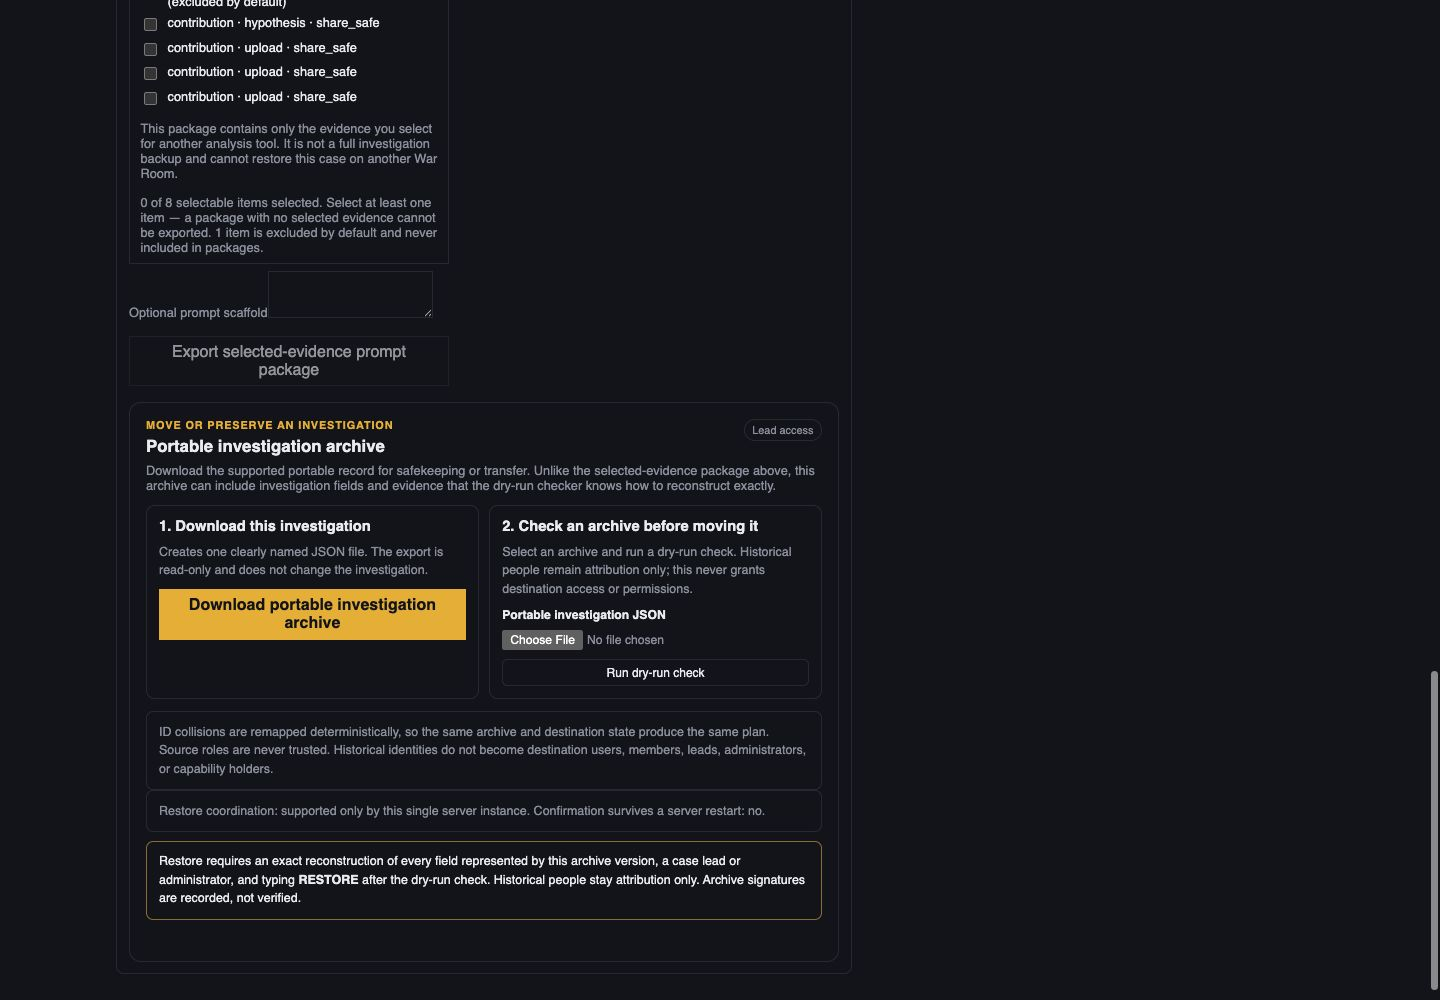
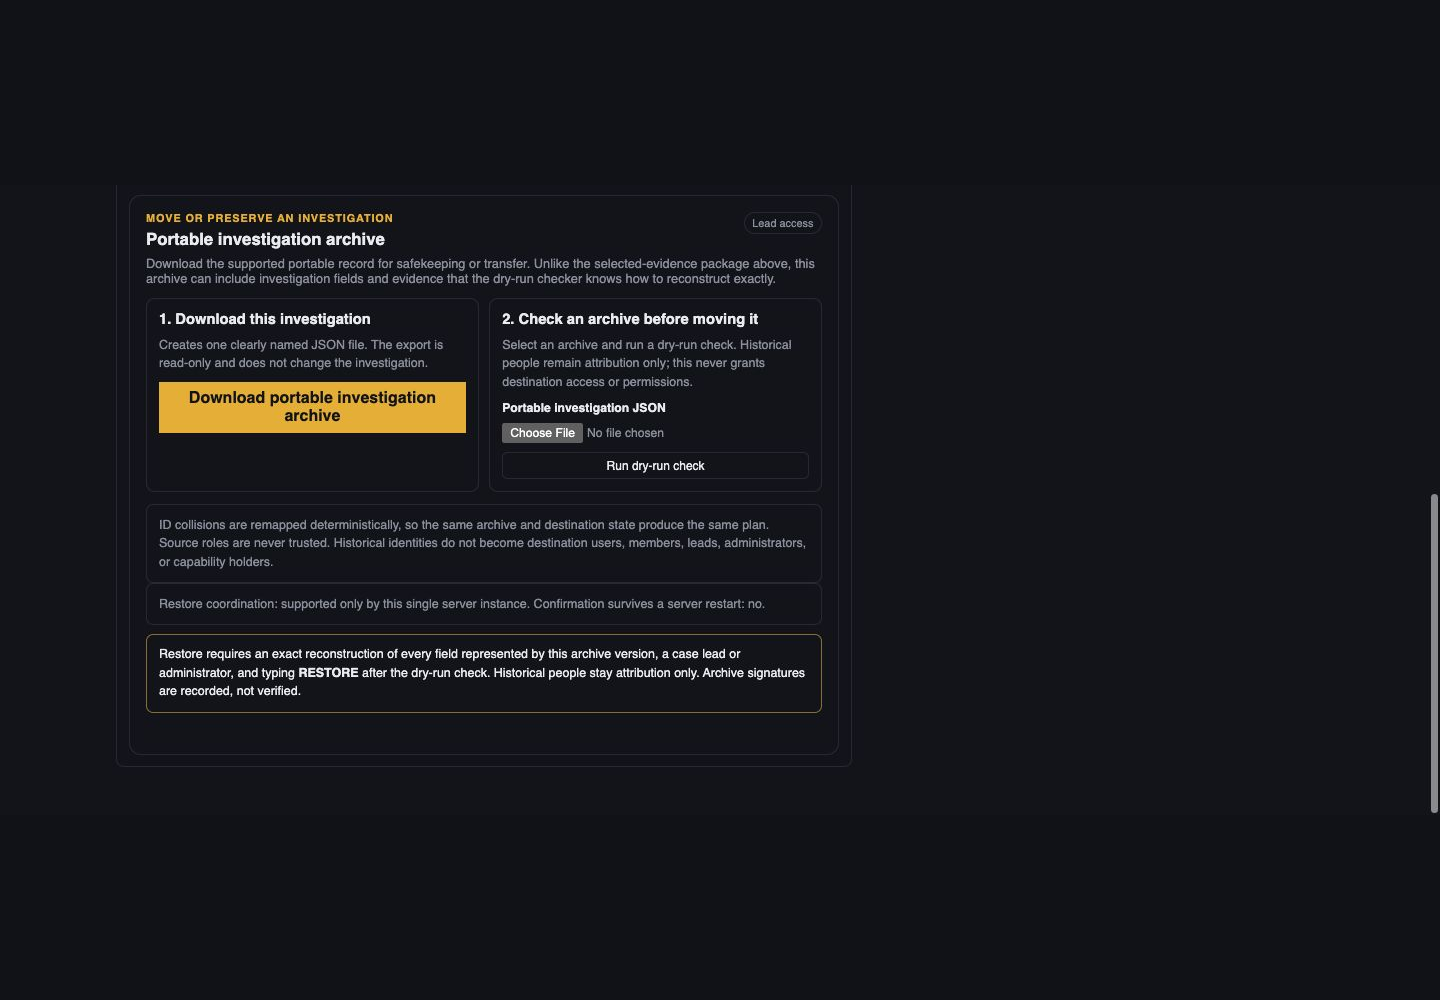
Refresh Decide and portable export media

diff --git a/docs/media/README.md b/docs/media/README.md
@@ -58,14 +58,15 @@ credential, private path, or non-synthetic corpus is visible.
 | `gallery/war-room-capture-analyze.png` | Capture provenance, imported-output boundary, and corpus intake | 1440 × 1000 PNG | `5508e9e63b540d1ba5080fc7d70eecd74f08e332` | Synthetic checkout-timeout War Room demo |
 | `gallery/war-room-analyze.png` | Workstreams and the beginning of the investigation-owned Log workbench, including its current open-pane count | 1440 × 1000 PNG | `cddc38fb0088f377b124fc30cf5c76c0c4234cb4` | Synthetic checkout-timeout War Room demo |
 | `gallery/war-room-compare-decide.png` | Comparison lab, evidence, deep links, and lane focus | 1440 × 1000 PNG | `5508e9e63b540d1ba5080fc7d70eecd74f08e332` | Synthetic checkout-timeout War Room demo |
-| `gallery/war-room-decide-export.png` | Portable archive download and dry-run controls with exact-restore warning | 1440 × 1000 PNG | `5508e9e63b540d1ba5080fc7d70eecd74f08e332` | Synthetic checkout-timeout War Room demo |
-| `gallery/war-room-export.png` | Portable archive download and dry-run controls with exact-restore warning | 1440 × 1000 PNG | `5508e9e63b540d1ba5080fc7d70eecd74f08e332` | Synthetic checkout-timeout War Room demo |
+| `gallery/war-room-decide-export.png` | Human decision journal, recorded comparison context, and share-safe export boundary | 1440 × 1000 PNG | `c7d0ca8b364ff5336cc2a95dc4f2c22ce175cbcf` | Synthetic checkout-timeout War Room demo |
+| `gallery/war-room-export.png` | Portable archive download and dry-run controls with exact-restore warning | 1440 × 1000 PNG | `c7d0ca8b364ff5336cc2a95dc4f2c22ce175cbcf` | Synthetic checkout-timeout War Room demo |
 
 **Known residual — this is not a single-build gallery.** The Analyze frame was
-refreshed at `cddc38fb0088f377b124fc30cf5c76c0c4234cb4` to show the current
-workbench entry point and open-pane count; the other War Room frames remain exact captures of
-`5508e9e63b540d1ba5080fc7d70eecd74f08e332`, while the three native desktop
-frames still span earlier packaged-app builds. `gallery/logs-library-demo.png`
+refreshed at `cddc38fb0088f377b124fc30cf5c76c0c4234cb4`; the two Decide/export
+frames were refreshed at `c7d0ca8b364ff5336cc2a95dc4f2c22ce175cbcf`;
+and the Overview, Capture, and Compare frames remain exact captures of
+`5508e9e63b540d1ba5080fc7d70eecd74f08e332`. The three native desktop frames
+still span earlier packaged-app builds. `gallery/logs-library-demo.png`
 predates the Logs toolbar regrouping. Closing that residual requires a full
 recapture from one freshly built release; it cannot be discharged by editing
 this file.
